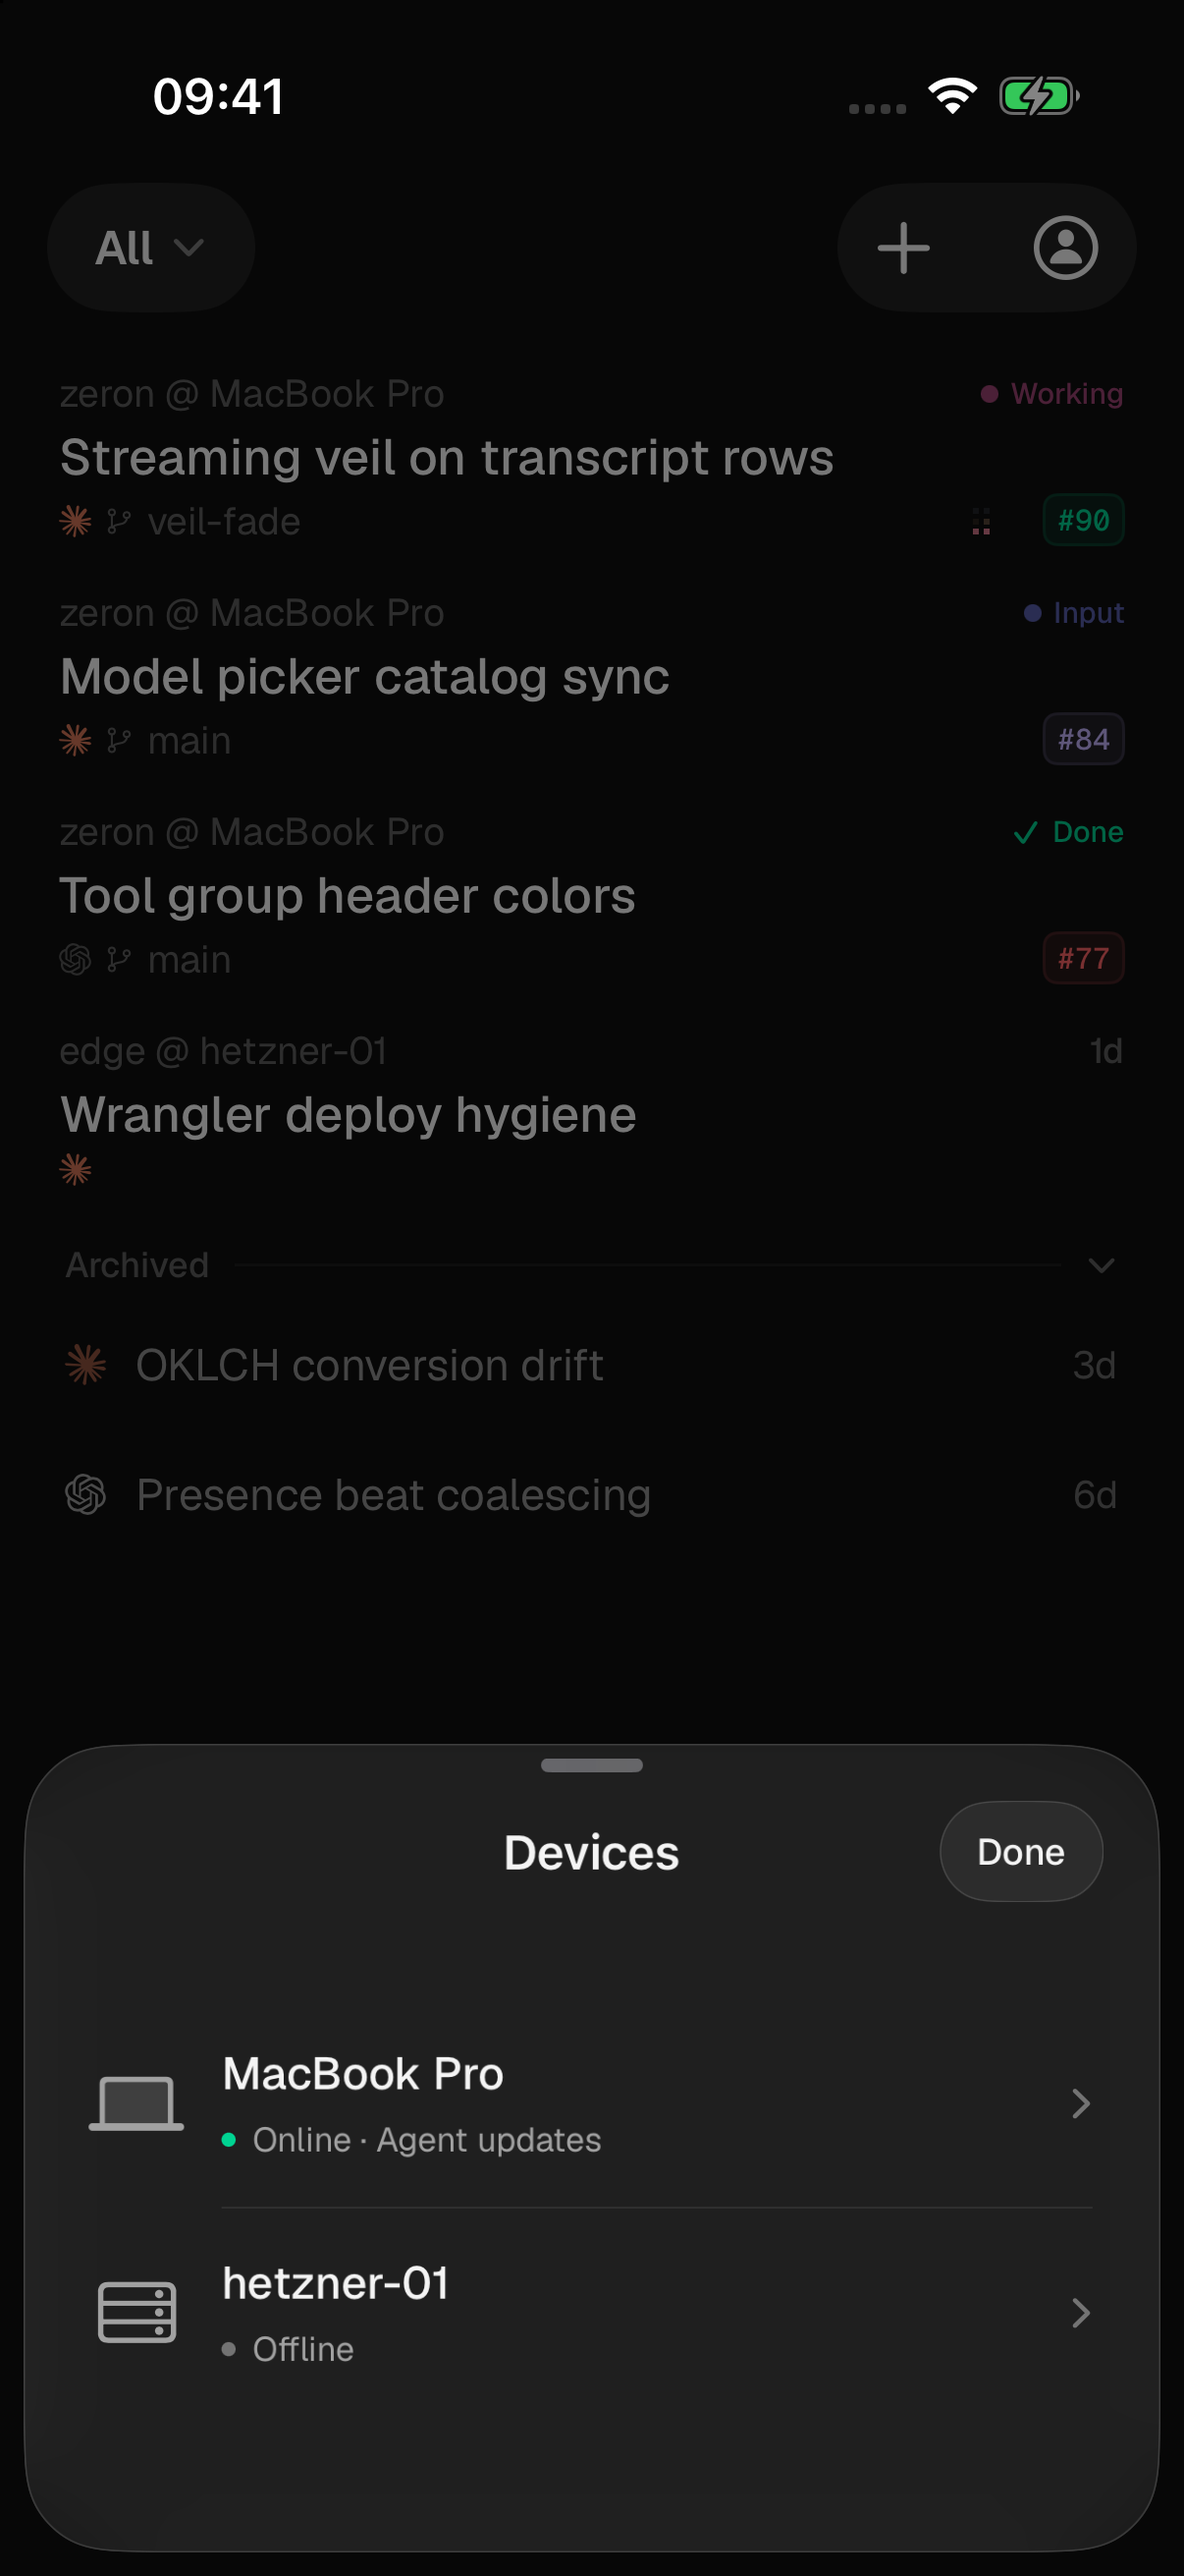
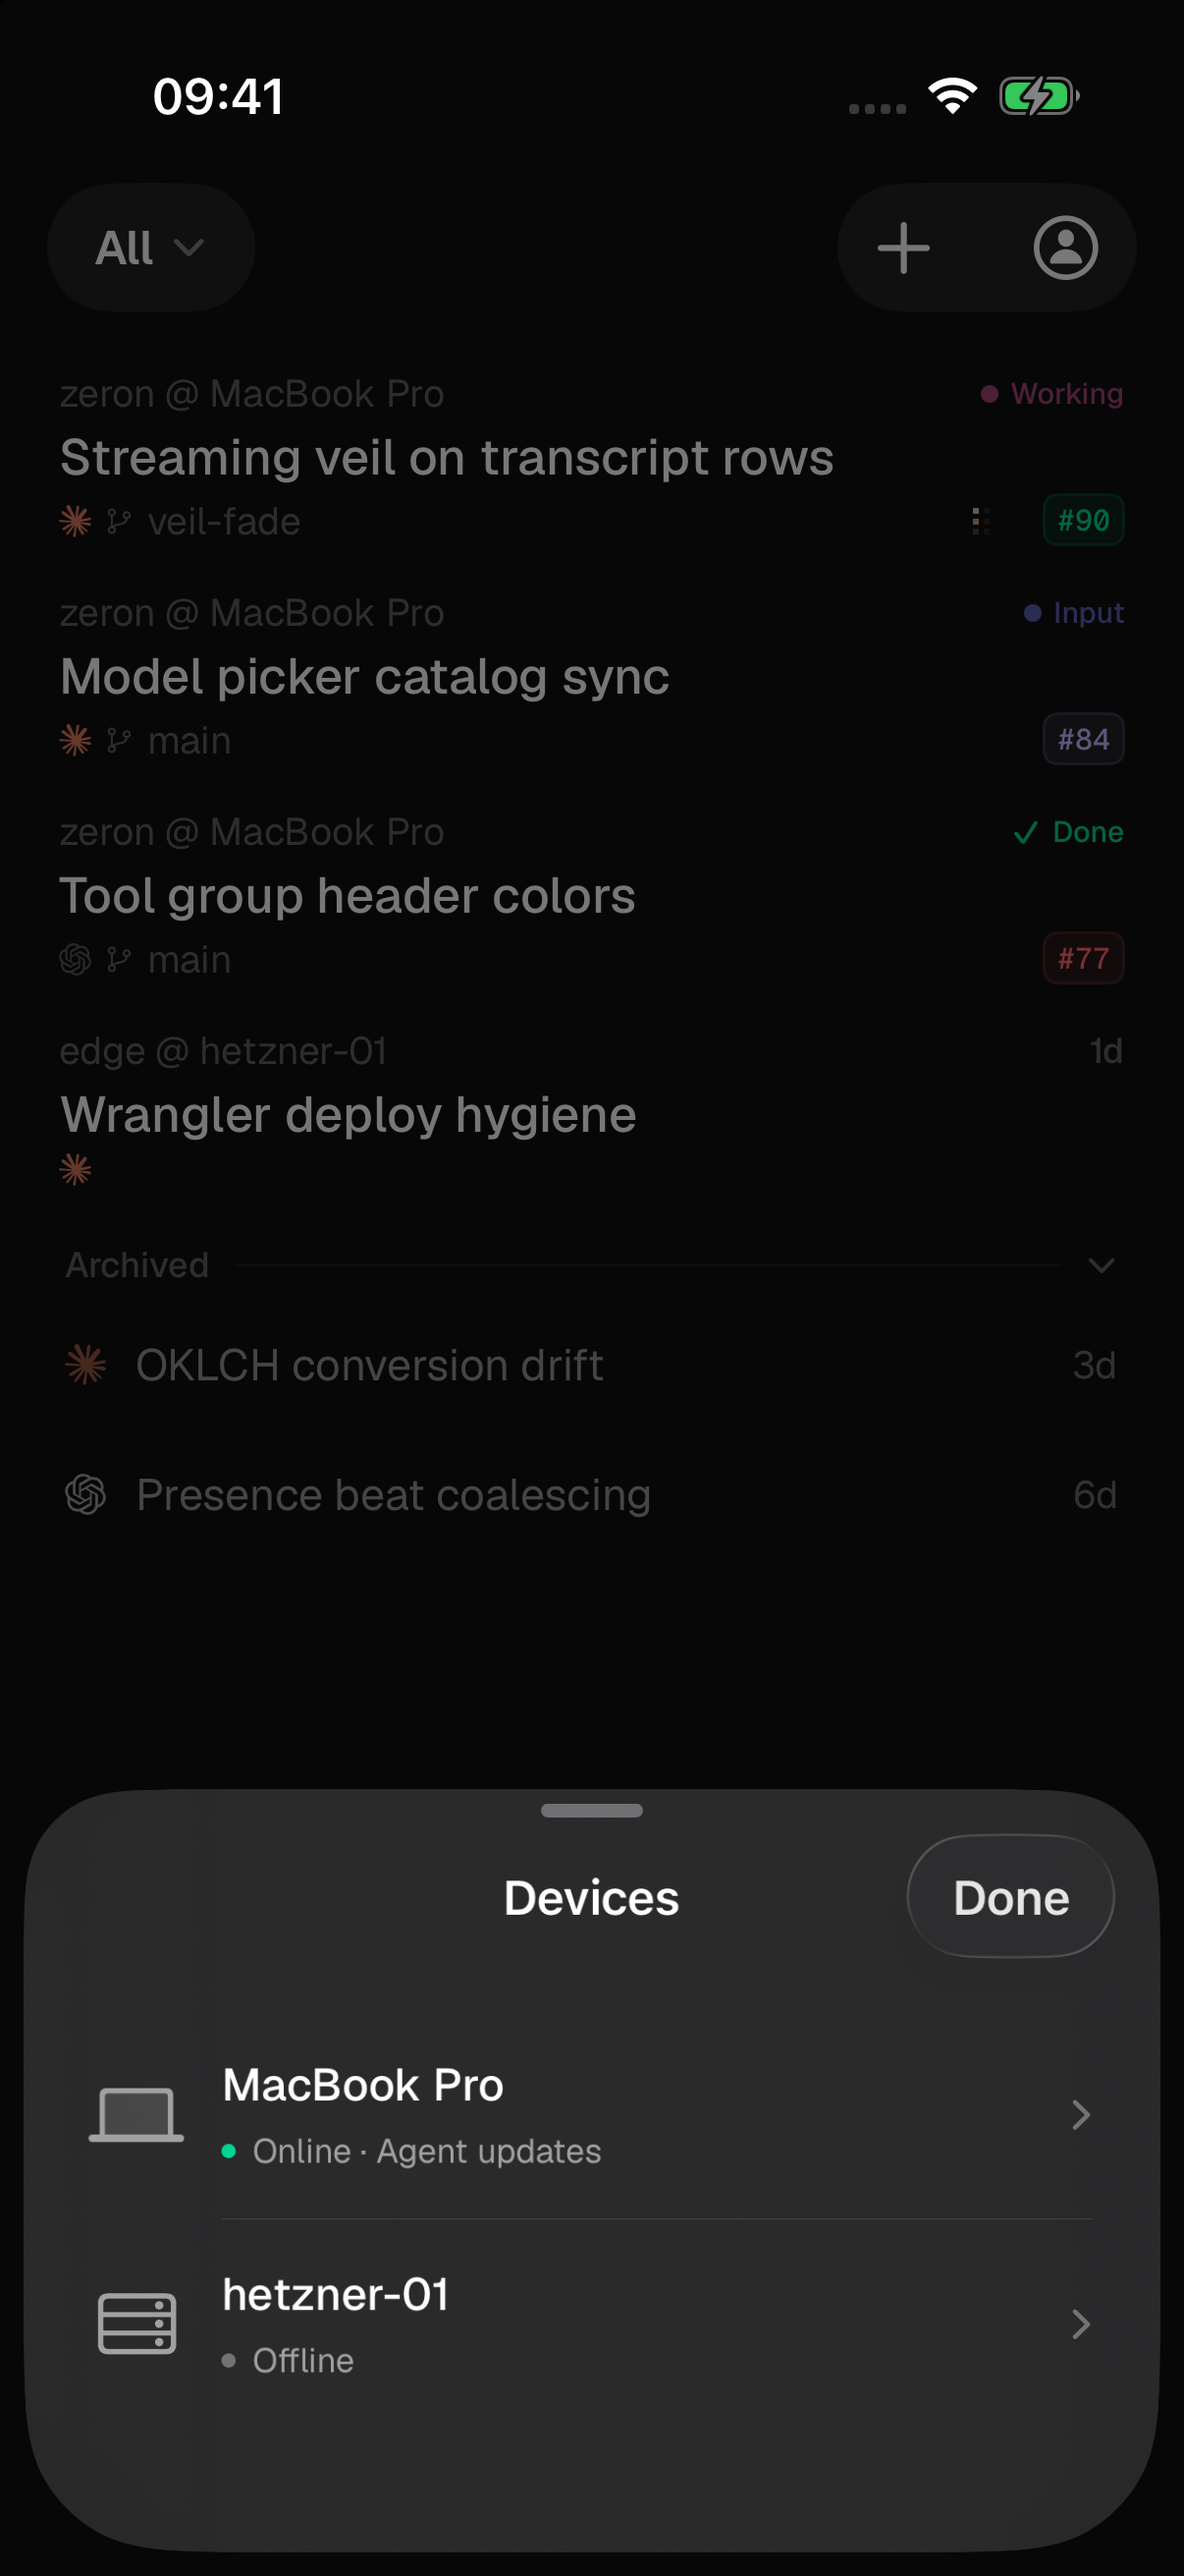
Refresh PR 389 mobile captures from 5d139f8f

diff --git a/ios-evidence.md b/ios-evidence.md
@@ -1,0 +1,9 @@
+# Native mobile sheet evidence
+
+Branch fix/harness-update-lifecycle, SHA 5d139f8f. Worktree /Users/gaelcado/zeron/work/agent-updates.
+Build: /tmp/pr389-ios-evidence/Build/Products/Debug-iphonesimulator/Zeron.app/Zeron.
+iPhone 17 Pro, iOS 26.3, simulator 21D6E476-0681-4087-845F-0E860E50CCEE. Dark appearance, default text size, demo fixtures.
+Captures: native simctl framebuffer, updates.png (-demo -route updates:dev-mac), devices.png (-demo -sheet devices).
+Build and 2 HarnessUpdatesUITests passed; /tmp/pr389-native-sheet-tests.xcresult.
+Both pane corner masks and toolbar outlines visually inspected.
+Not verified in this iteration: other devices/OS versions, RTL, larger text, slowed motion.
